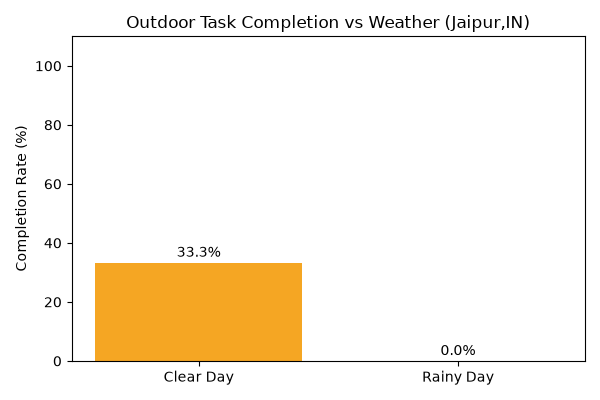
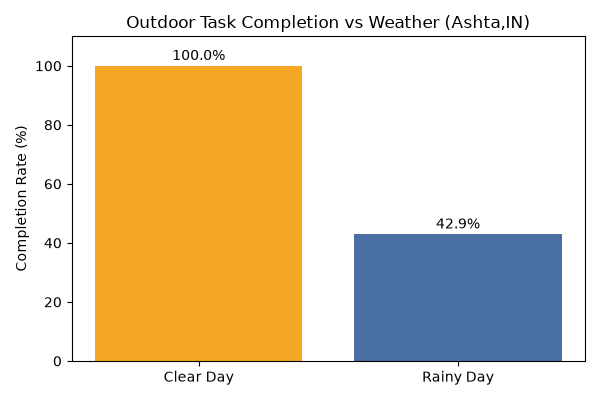
Refactor project code to clean first-year student implementation

Changed region(s): [[0.15, 0.12, 0.51, 0.66], [0.57, 0.54, 0.96, 0.9], [0.75, 0.03, 0.84, 0.09]]

diff --git a/src/run_interactive.py b/src/run_interactive.py
@@ -472,18 +472,7 @@ def correlation_heatmap_flow():
         print("\n(Tip: pip install rich  for a colored heatmap.)")
 
 
-def desktop_gui_flow():
-    print("\n--- Opening Desktop Window ---")
-    print("A window should appear on your screen. Close it when you're done to return here.")
-    try:
-        import desktop_gui
-        desktop_gui.launch()
-    except ImportError as e:
-        print(f"\nCouldn't open the desktop window: {e}")
-        print("Tip: tkinter usually ships with Python by default on Windows; "
-              "if it's missing, reinstall Python from python.org with 'tcl/tk and IDLE' checked.")
-    except Exception as e:
-        print(f"\nThe desktop window closed unexpectedly: {e}")
+
 
 
 MENU = """
@@ -502,9 +491,7 @@ MENU = """
  10. View analytics / charts
  11. Test notifications
  12. Weather correlation heatmap
- 13. Open desktop window (GUI)
- 14. Exit
-==================================================
+ 13. Exit
 """
 
 ACTIONS = {
@@ -520,7 +507,6 @@ ACTIONS = {
     "10": analytics_flow,
     "11": test_notification_flow,
     "12": correlation_heatmap_flow,
-    "13": desktop_gui_flow,
 }
 
 
@@ -528,16 +514,16 @@ def main():
     print("Welcome! This tool will guide you step by step — just type the number of what you want to do.")
     while True:
         print(MENU)
-        choice = input("Enter your choice (1-14): ").strip()
+        choice = input("Enter your choice (1-13): ").strip()
 
-        if choice == "14":
+        if choice == "13":
 
             print("\nGoodbye!")
             sys.exit(0)
 
         action = ACTIONS.get(choice)
         if action is None:
-            print("\nPlease enter a number between 1 and 14.")
+            print("\nPlease enter a number between 1 and 13.")
             continue
 
         action()
